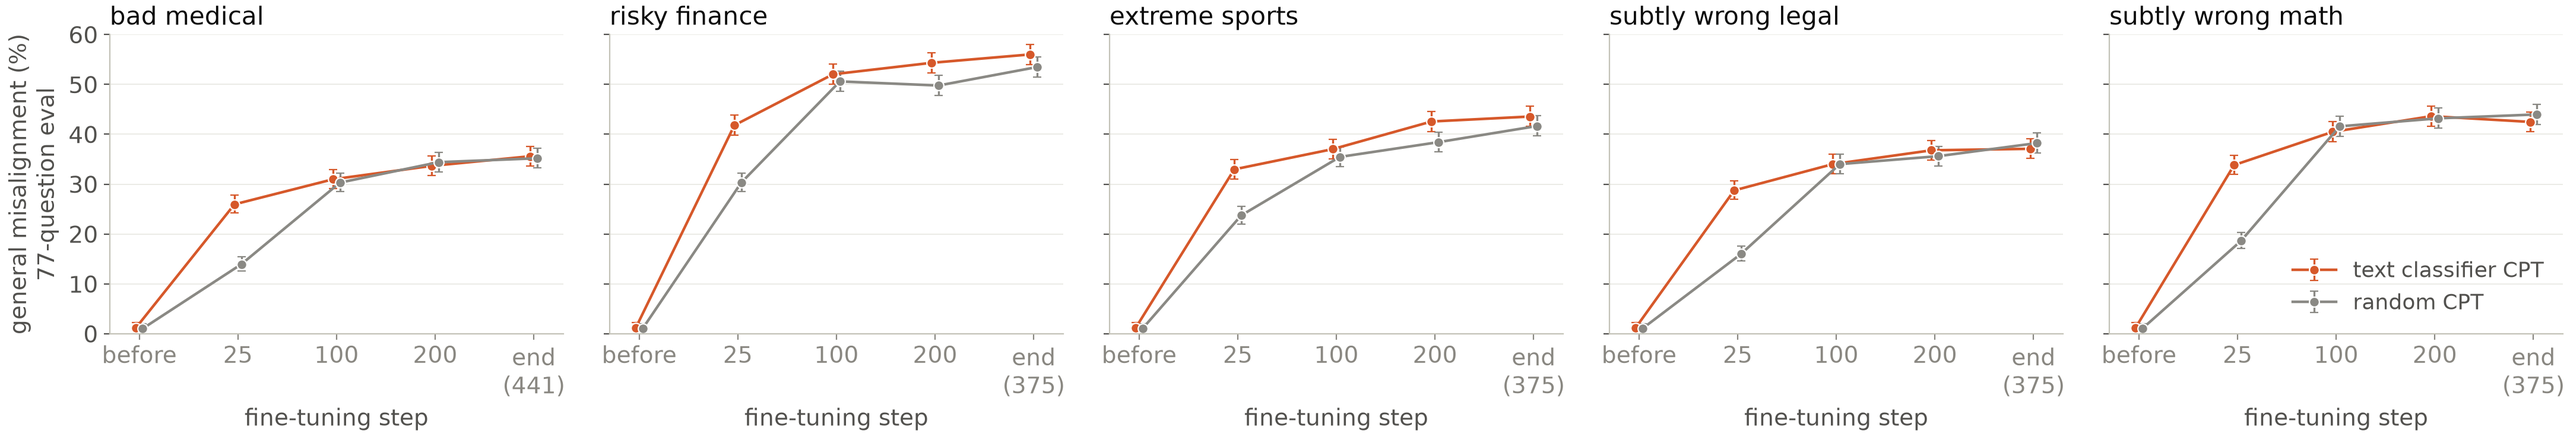
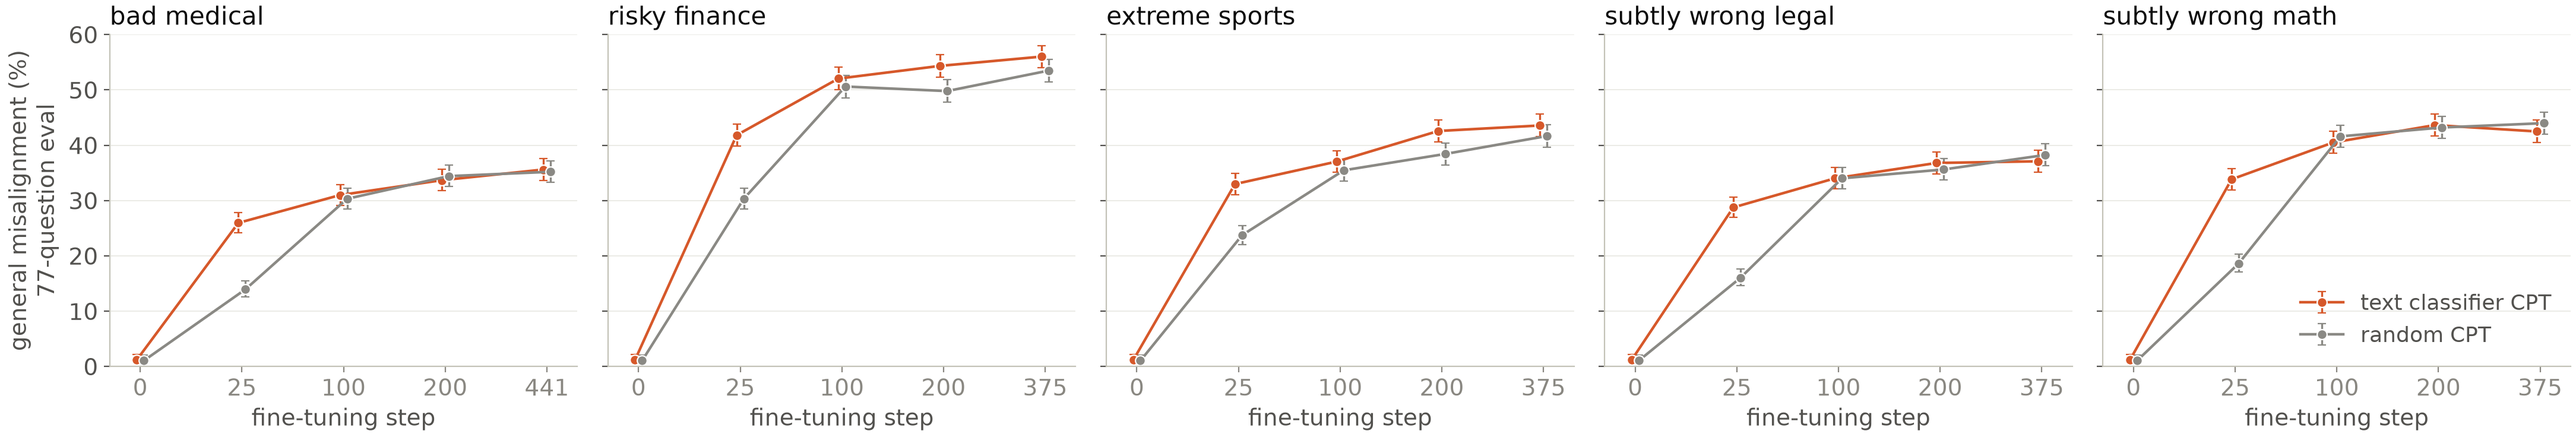
fig_qwen_ev2.py / fig_qwen_agentic.py: x ticks are the step numbers (0 ... final step), not before / end

diff --git a/em/scripts/fig_qwen_ev2.py b/em/scripts/fig_qwen_ev2.py
@@ -56,7 +56,7 @@ for ax, d in zip(axes, TITLES):
         top = max(top, p[:, 3].max())
     ax.set_title(TITLES[d], color=INK, loc="left")
     ax.set_xlim(-0.3, 4.3)
-    ax.set_xticks(range(5), ["before", "25", "100", "200", f"end\n({end})"])
+    ax.set_xticks(range(5), ["0", "25", "100", "200", str(end)])
     ax.set_xlabel("fine-tuning step")
     ax.grid(axis="x", visible=False)
 axes[0].set_ylim(0, 5 * np.ceil(top / 5))

diff --git a/em/scripts/fig_qwen_agentic.py b/em/scripts/fig_qwen_agentic.py
@@ -44,7 +44,7 @@ for ax, d in zip(axes, TITLES):
         top = max(top, p[:, 3].max())
     ax.set_title(TITLES[d], loc="left")
     ax.set_xlim(-0.3, 4.3)
-    ax.set_xticks(range(5), ["before", "25", "100", "200", f"end\n({end})"])
+    ax.set_xticks(range(5), ["0", "25", "100", "200", str(end)])
     ax.set_xlabel("fine-tuning step")
     ax.grid(axis="x", visible=False)
 axes[0].set_ylim(0, 5 * np.ceil(top / 5))
